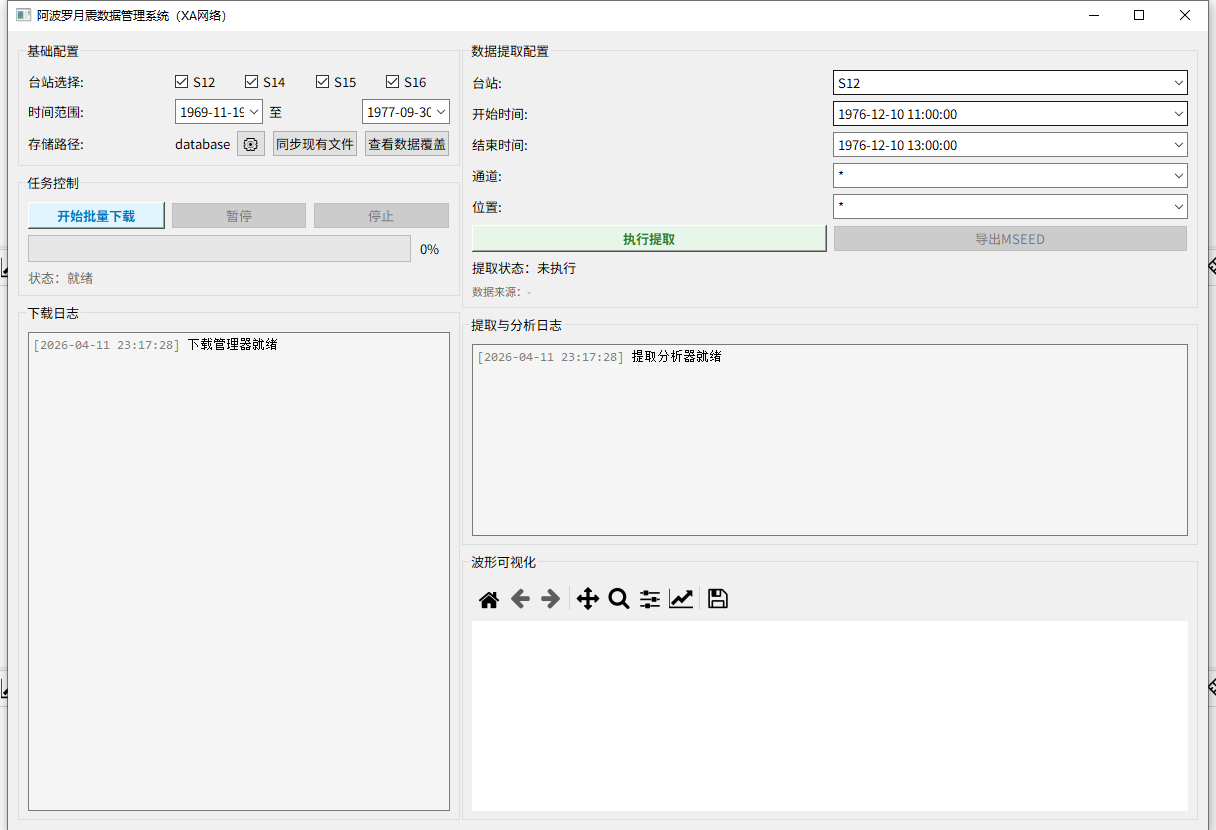
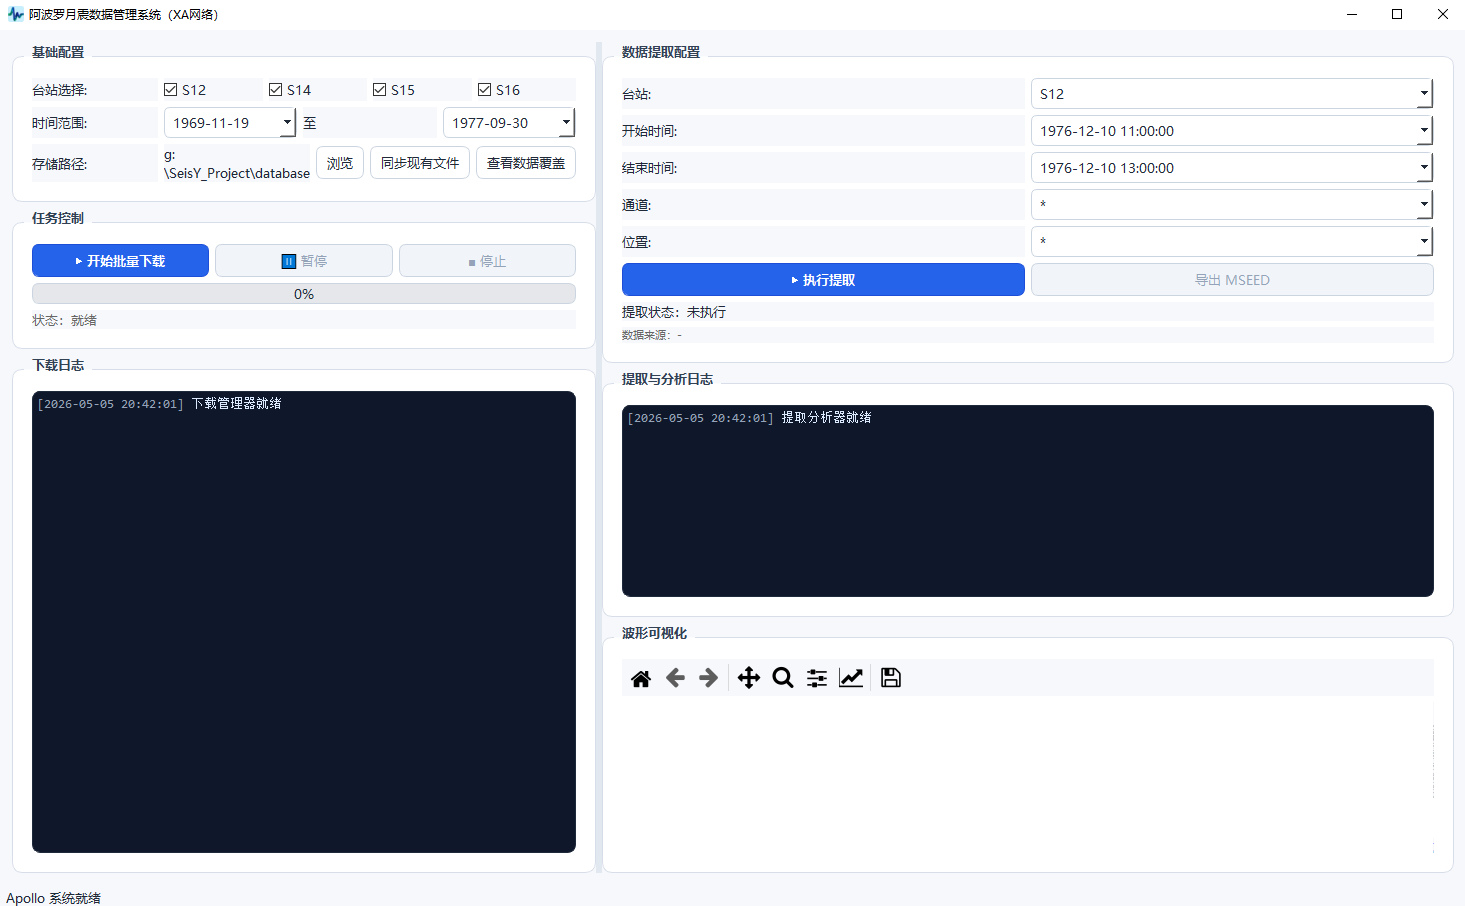
个人主页及相关界面优化

diff --git a/HTML/SeisY.html b/HTML/SeisY.html
@@ -6,7 +6,7 @@
     <title>SeisY - 地震数据处理与分析平台</title>
     <script src="https://cdn.tailwindcss.com"></script>
     <link rel="stylesheet" href="https://cdnjs.cloudflare.com/ajax/libs/font-awesome/6.4.0/css/all.min.css">
-    <link rel="icon" href="../static/images/SeisY.ico">
+    <link rel="icon" href="../static/images/SeisY/SeisY-3D-rad.ico">
     <script>
         tailwind.config = {
             theme: {
@@ -67,7 +67,7 @@
             <div class="flex justify-between items-center h-16">
                 <a href="#hero" class="flex items-center space-x-2">
                     <div class="w-10 h-10 rounded-lg flex items-center justify-center">
-                        <img src="../static/images/SeisY.ico" alt="SeisY" class="w-8 h-8">
+                        <img src="../static/images/SeisY/SeisY-3D-rad.ico" alt="SeisY" class="w-8 h-8">
                     </div>
                     <span class="font-bold text-xl">SeisY</span>
                 </a>
@@ -113,7 +113,7 @@
                     <span class="text-primary">地震数据处理与分析平台</span>
                 </h1>
                 <p class="text-lg md:text-xl text-dark/70 mb-10 max-w-2xl mx-auto fade-in delay-200">
-                    面向地震、月震与行星地震研究的桌面软件，集成波形处理、频谱分析、震源定位、射线追踪与简正模分析等专业工具。
+                    面向地震、月震与行星地震研究的桌面软件，集成波形处理、频谱分析、震源定位、射线追踪与简正模分析等专业工具，当前提供 Windows 版本。
                 </p>
                 <div class="flex flex-col sm:flex-row justify-center gap-4 fade-in delay-300">
                     <a href="#download" class="px-8 py-3 bg-accent text-white rounded-lg font-medium hover:bg-accent/90 transition-custom shadow-lg shadow-accent/20">
@@ -154,7 +154,7 @@
             <div class="text-center mb-16">
                 <h2 class="text-[clamp(1.8rem,3vw,2.5rem)] font-bold mb-4">软件概述</h2>
                 <div class="w-20 h-1 bg-primary mx-auto mb-6"></div>
-                <p class="text-dark/70 max-w-2xl mx-auto">SeisY 是一个综合性的地震数据处理和分析平台，基于 PyQt6 构建，适用于地球物理研究与教学。</p>
+                <p class="text-dark/70 max-w-2xl mx-auto">SeisY 是一个综合性的地震数据处理和分析平台，基于 PyQt6 构建，当前提供 Windows 桌面版，适用于地球物理研究与教学。</p>
             </div>
 
             <div class="grid md:grid-cols-2 gap-12 items-center">
@@ -454,7 +454,7 @@
                             </div>
                             <div>
                                 <h4 class="font-semibold mb-1">PyQt6 桌面框架</h4>
-                                <p class="text-dark/70">跨平台 GUI，支持 Windows、Linux 和 macOS。</p>
+                                <p class="text-dark/70">基于 PyQt6 的桌面 GUI，当前提供 Windows 版本。</p>
                             </div>
                         </div>
                         <div class="flex items-start">
@@ -489,8 +489,8 @@
                                 <i class="fa fa-calculator"></i>
                             </div>
                             <div>
-                                <h4 class="font-semibold mb-1">TauP 走时计算</h4>
-                                <p class="text-dark/70">集成 TauP 射线理论走时工具，用于震源定位与相位预测。</p>
+                                <h4 class="font-semibold mb-1">走时计算工具</h4>
+                                <p class="text-dark/70">自主开发的射线理论走时计算工具，并与 TauP 对比验证，可用于震源定位与相位预测。</p>
                             </div>
                         </div>
                     </div>
@@ -521,12 +521,13 @@
         </div>
     </section>
 
-    <!-- 事件列表与界面布局 -->
+    <!-- 主界面布局与事件列表 -->
     <section id="layout" class="section-padding bg-white">
         <div class="container mx-auto px-4 sm:px-6 lg:px-8">
             <div class="text-center mb-16">
                 <h2 class="text-[clamp(1.8rem,3vw,2.5rem)] font-bold mb-4">界面布局</h2>
                 <div class="w-20 h-1 bg-primary mx-auto mb-6"></div>
+                <p class="text-dark/70 max-w-2xl mx-auto">先从主界面整体布局了解 SeisY，再查看事件列表与详情面板的交互方式。</p>
             </div>
 
             <div class="grid md:grid-cols-2 gap-8">
@@ -537,9 +538,9 @@
                             <span class="project-shot-dot" style="background:#febc2e;"></span>
                             <span class="project-shot-dot" style="background:#28c840;"></span>
                         </div>
-                        <img src="../static/images/SeisY/SeisY-EventList.png" alt="SeisY 事件列表" class="w-full h-auto">
+                        <img src="../static/images/SeisY/SeisY-main-distribution.png" alt="SeisY 主界面布局分区示意" class="w-full h-auto">
                     </div>
-                    <p class="text-center text-dark/60 text-sm mt-3">事件列表区域：数据流管理、分组与右键操作</p>
+                    <p class="text-center text-dark/60 text-sm mt-3">主界面总览：资源管理、球体/地图、绘图区与终端/事件区协同工作</p>
                 </div>
                 <div class="flex flex-col justify-center">
                     <h3 class="text-2xl font-semibold mb-6 text-primary">主界面结构</h3>
@@ -583,6 +584,52 @@
                     </div>
                 </div>
             </div>
+
+            <div class="grid md:grid-cols-2 gap-8 items-center mt-12">
+                <div class="order-2 md:order-1 flex flex-col justify-center">
+                    <h3 class="text-2xl font-semibold mb-6 text-primary">事件列表与详情面板</h3>
+                    <div class="space-y-4 text-dark/70">
+                        <div class="flex items-start">
+                            <div class="w-8 h-8 rounded bg-primary/10 flex items-center justify-center text-primary mr-3 mt-0.5 flex-shrink-0">
+                                <i class="fa fa-list text-sm"></i>
+                            </div>
+                            <div>
+                                <h4 class="font-semibold text-dark">事件流分组管理</h4>
+                                <p class="text-sm">支持事件分组浏览、批量勾选、右键操作与多事件数据组织。</p>
+                            </div>
+                        </div>
+                        <div class="flex items-start">
+                            <div class="w-8 h-8 rounded bg-primary/10 flex items-center justify-center text-primary mr-3 mt-0.5 flex-shrink-0">
+                                <i class="fa fa-circle-info text-sm"></i>
+                            </div>
+                            <div>
+                                <h4 class="font-semibold text-dark">详情与统计信息联动</h4>
+                                <p class="text-sm">可查看事件文件路径、Trace 信息、采样参数、统计量与预览波形。</p>
+                            </div>
+                        </div>
+                        <div class="flex items-start">
+                            <div class="w-8 h-8 rounded bg-primary/10 flex items-center justify-center text-primary mr-3 mt-0.5 flex-shrink-0">
+                                <i class="fa fa-computer-mouse text-sm"></i>
+                            </div>
+                            <div>
+                                <h4 class="font-semibold text-dark">面向分析流程的快速操作</h4>
+                                <p class="text-sm">便于从事件筛选、信息核查到后续处理与分析的连续工作流切换。</p>
+                            </div>
+                        </div>
+                    </div>
+                </div>
+                <div class="order-1 md:order-2">
+                    <div class="project-shot">
+                        <div class="project-shot-bar">
+                            <span class="project-shot-dot" style="background:#ff5f57;"></span>
+                            <span class="project-shot-dot" style="background:#febc2e;"></span>
+                            <span class="project-shot-dot" style="background:#28c840;"></span>
+                        </div>
+                        <img src="../static/images/SeisY/SeisY-EventList.png" alt="SeisY 事件列表与详情面板" class="w-full h-auto">
+                    </div>
+                    <p class="text-center text-dark/60 text-sm mt-3">事件列表与详情面板：支持分组管理、信息查看与波形预览</p>
+                </div>
+            </div>
         </div>
     </section>
 
@@ -593,12 +640,12 @@
                 <div>
                     <div class="flex items-center space-x-2 mb-6">
                         <div class="w-10 h-10 rounded-lg flex items-center justify-center">
-                            <img src="../static/images/SeisY.ico" alt="SeisY" class="w-8 h-8">
+                            <img src="../static/images/SeisY/SeisY-3D-rad.ico" alt="SeisY" class="w-8 h-8">
                         </div>
                         <span class="font-bold text-xl">SeisY</span>
                     </div>
                     <p class="text-white/70 mb-6">
-                        面向地震、月震与行星地震研究的数据处理、分析与可视化桌面软件。
+                        面向地震、月震与行星地震研究的数据处理、分析与可视化桌面软件，当前提供 Windows 版本。
                     </p>
                     <div class="flex space-x-4">
                         <a href="https://github.com/YSP0Github/SeisY" target="_blank" class="w-10 h-10 rounded-full bg-white/10 flex items-center justify-center text-white/70 hover:bg-primary hover:text-white transition-custom">

diff --git a/HTML/ScienceLab.html b/HTML/ScienceLab.html
@@ -4,6 +4,7 @@
   <meta charset="UTF-8">
   <meta name="viewport" content="width=device-width, initial-scale=1.0">
   <title>科学小实验项目 - 云凇之家</title>
+  <link rel="icon" type="image/svg+xml" href="../static/images/project_icons/sciencelab-icon.svg">
   <link href="https://cdn.jsdelivr.net/npm/font-awesome@4.7.0/css/font-awesome.min.css" rel="stylesheet">
   <style>
     :root {

diff --git a/PendulumLab/static/index.html b/PendulumLab/static/index.html
@@ -4,6 +4,7 @@
   <meta charset="utf-8" />
   <meta name="viewport" content="width=device-width, initial-scale=1" />
   <title>PendulumLab - Double / Triple / Quad Pendulum</title>
+  <link rel="icon" type="image/svg+xml" href="../../static/images/project_icons/sciencelab-icon.svg" />
   <link rel="stylesheet" href="styles.css" />
 </head>
 <body>

diff --git a/ResonanceLab/static/index.html b/ResonanceLab/static/index.html
@@ -4,6 +4,7 @@
   <meta charset="utf-8" />
   <meta name="viewport" content="width=device-width, initial-scale=1" />
   <title>ResonanceLab - 振动与共振实验</title>
+  <link rel="icon" type="image/svg+xml" href="../../static/images/project_icons/sciencelab-icon.svg" />
   <link rel="stylesheet" href="styles.css" />
 </head>
 <body>

diff --git a/WaveLab/static/index.html b/WaveLab/static/index.html
@@ -4,6 +4,7 @@
   <meta charset="utf-8" />
   <meta name="viewport" content="width=device-width, initial-scale=1" />
   <title>RayleighWaveLab - 面波教学实验</title>
+  <link rel="icon" type="image/svg+xml" href="../../static/images/project_icons/sciencelab-icon.svg" />
   <link rel="stylesheet" href="styles.css" />
 </head>
 <body>

diff --git a/funhome/funhome.html b/funhome/funhome.html
@@ -5,6 +5,7 @@
   <meta name="viewport" content="width=device-width, initial-scale=1.0">
   <title>趣味屋｜手写精品游戏库</title>
   <meta name="description" content="趣味屋重新整理为手写精品游戏库：31款手写游戏 + 15款经典老游戏 + 3个趣味实验。">
+  <link rel="icon" type="image/svg+xml" href="../static/images/project_icons/funhome-icon.svg">
   <style>
     :root {
       --bg: #07111f;